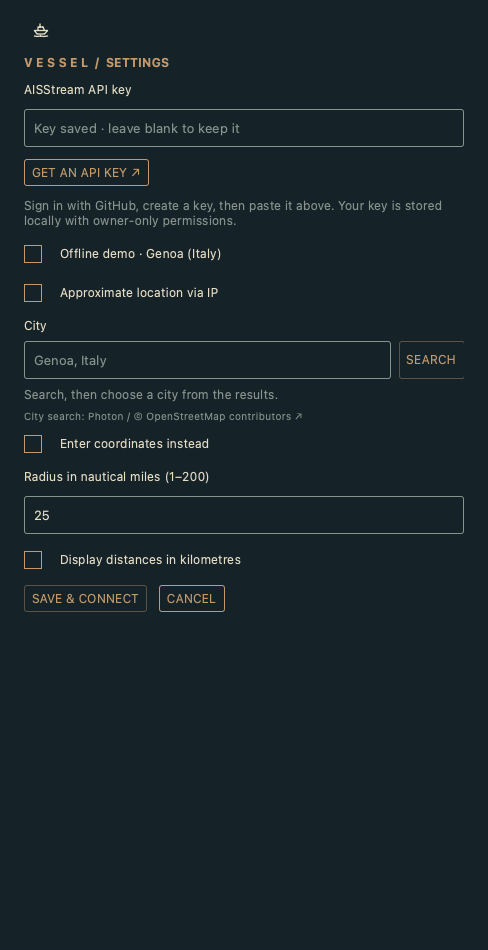
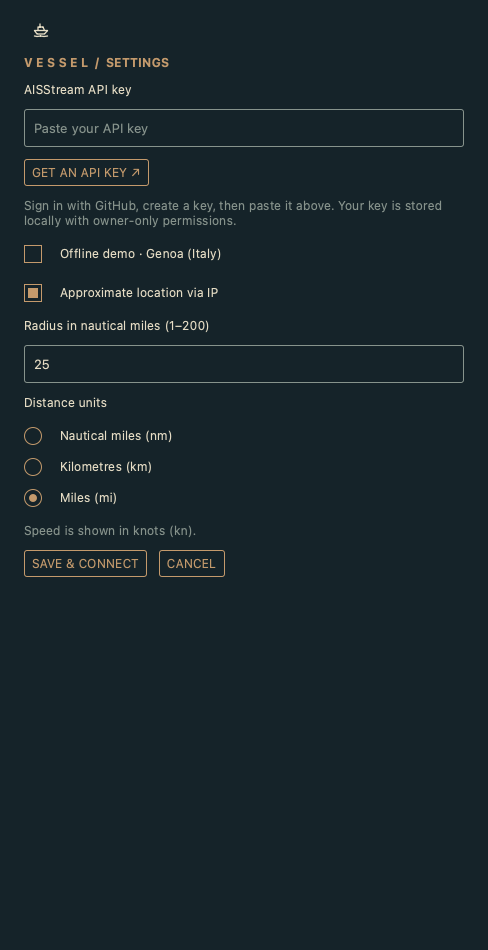
Offer nautical miles, kilometres and statute miles in settings

Changed region(s): [[0.0307, 0.3053, 0.584, 0.6411], [0.0615, 0.1221, 0.4918, 0.1526], [0.7992, 0.3663, 0.9529, 0.3968]]

diff --git a/SettingsForm.qml b/SettingsForm.qml
@@ -27,7 +27,9 @@ Column {
         manual.checked = !root.cityName && latitude.text !== "" && longitude.text !== "";
         automatic.checked = value.autoLocation !== false;
         demo.checked = value.demo === true;
+        nautical.checked = value.unit !== "km" && value.unit !== "mi";
         kilometres.checked = value.unit === "km";
+        miles.checked = value.unit === "mi";
     }
     Component.onCompleted: populate()
     Connections {
@@ -60,6 +62,22 @@ Column {
             width: 18; height: 18; y: (parent.height - height) / 2
             color: Color.background; border.color: Color.accent
             Rectangle { anchors.centerIn: parent; width: 10; height: 10; color: Color.accent; visible: parent.parent.checked }
+        }
+    }
+    // Sibling radio buttons keep the three unit choices mutually exclusive.
+    component UnitOption: RadioButton {
+        font.family: root.family
+        contentItem: Text {
+            text: parent.text; textFormat: Text.PlainText; color: Color.foreground
+            font: parent.font; leftPadding: 30; verticalAlignment: Text.AlignVCenter
+        }
+        indicator: Rectangle {
+            width: 18; height: 18; radius: 9; y: (parent.height - height) / 2
+            color: Color.background; border.color: Color.accent
+            Rectangle {
+                anchors.centerIn: parent; width: 8; height: 8; radius: 4
+                color: Color.accent; visible: parent.parent.checked
+            }
         }
     }
     Caption { text: "V E S S E L  /  SETTINGS"; color: Color.accent; font.bold: true }
@@ -137,7 +155,14 @@ Column {
     }
     Caption { text: "Radius in nautical miles (1–200)" }
     Field { id: radius; placeholderText: "25" }
-    Toggle { id: kilometres; text: "Display distances in kilometres" }
+    Caption { text: "Distance units" }
+    Column {
+        width: parent.width; spacing: 4
+        UnitOption { id: nautical; objectName: "unitNm"; text: "Nautical miles (nm)" }
+        UnitOption { id: kilometres; objectName: "unitKm"; text: "Kilometres (km)" }
+        UnitOption { id: miles; objectName: "unitMi"; text: "Miles (mi)" }
+    }
+    Caption { text: "Speed is shown in knots (kn)."; color: Color.muted }
     Caption { text: VesselService.settingsError; visible: text.length > 0; color: Color.accent }
     Row {
         spacing: 12
@@ -148,7 +173,7 @@ Column {
                 VesselService.saveSettings({apiKey: apiKey.text, radiusNm: radius.text,
                     latitude: latitude.text, longitude: longitude.text, cityName: root.cityName,
                     autoLocation: automatic.checked, demo: demo.checked,
-                    unit: kilometres.checked ? "km" : "nm"});
+                    unit: kilometres.checked ? "km" : miles.checked ? "mi" : "nm"});
                 apiKey.text = "";
             }
         }

diff --git a/Model.js b/Model.js
@@ -18,7 +18,10 @@ function compass(bearing) {
 }
 // Retain nautical miles internally and convert only the displayed label.
 function distance(nm, unit) {
-    return (unit === "km" ? nm * 1.852 : nm).toFixed(1) + " " + (unit === "km" ? "km" : "nm");
+    // One nautical mile is 1,852 metres; a statute mile is 1,609.344 metres.
+    if (unit === "km") return (nm * 1.852).toFixed(1) + " km";
+    if (unit === "mi") return (nm * 1852 / 1609.344).toFixed(1) + " mi";
+    return nm.toFixed(1) + " nm";
 }
 // Project bearing/range into screen pixels. center is a pixel offset from the
 // observer, not the normalized geographic center used to constrain panning.

diff --git a/tests/test_backend.py b/tests/test_backend.py
@@ -154,6 +154,13 @@ class SettingsTest(unittest.TestCase):
         settings.save(dict(apiKey="replacement"))
         self.assertEqual(settings.api_key(), "replacement")
 
+    def test_all_distance_units_survive_save_and_reload(self):
+        for unit in ("nm", "km", "mi"):
+            saved = settings.save(dict(unit=unit, radiusNm=25))
+            self.assertEqual(saved["unit"], unit)
+            self.assertEqual(settings.read()["unit"], unit)
+            self.assertEqual(settings.read()["radiusNm"], 25)
+
     def test_invalid_settings_do_not_replace_saved_key(self):
         settings.save(dict(apiKey="original"))
         for bad in [

diff --git a/backend/settings.py b/backend/settings.py
@@ -61,7 +61,7 @@ def validate_preferences(values):
     """Return only known fields, with the same rules for saved files and edits."""
     result = {key: values.get(key, default) for key, default in DEFAULTS.items()}
     result["radiusNm"] = bounded_number(result["radiusNm"], 1, 200)
-    if result["unit"] not in ("nm", "km") or any(
+    if result["unit"] not in ("nm", "km", "mi") or any(
         type(result[key]) is not bool for key in ("demo", "autoLocation")
     ):
         raise ValueError("Invalid preferences")

diff --git a/README.md b/README.md
@@ -28,7 +28,7 @@ I built Vessel out of that curiosity. I wanted a small widget I could glance at 
 - Offline land and coastline layer, projected around your position and colored by your theme.
 - One AISStream connection shared across bar widgets on multiple monitors.
 - Approximate IP geolocation, or a fixed latitude/longitude of your choice.
-- Configurable 1–200 nautical mile radius; distances displayed in nm or km.
+- Configurable 1–200 nautical mile radius; distances displayed in nautical miles (nm), kilometres (km) or miles (mi).
 - Vessel name, category, bearing from you, speed, reported destination and signal age.
 - Class A and Class B position reports, with static vessel information merged as it arrives.
 - Positions older than five minutes fade; contacts disappear after 30 minutes.
@@ -105,7 +105,7 @@ disk space, then click **RECONNECT** to retry.
 1. Open **Settings** from the Vessel panel.
 2. Paste your AISStream API key into the masked field.
 3. Use approximate IP location, or disable it and type a city name. Click **SEARCH**, then select a result. **Enter coordinates instead** remains available.
-4. Set the radius (1–200 nautical miles) and your preferred display unit.
+4. Set the radius (1–200 nautical miles) and choose **Nautical miles (nm)**, **Kilometres (km)** or **Miles (mi)**. Speed remains in knots (kn).
 5. Click **SAVE & CONNECT**. Changes apply immediately; no logout or shell restart.
 
 An empty key field keeps the previously saved key. To replace it, paste the new
@@ -182,7 +182,9 @@ it stops when the panel is closed or Settings is open. **SETTINGS**, **PAUSE / R
 **RECONNECT** share a fixed footer that stays visible while the panel scrolls. The bar shows only the boat icon.
 
 Reconnect after travelling to refresh the location. The radius always uses
-nautical miles, even when display units are kilometres (1 nm = 1.852 km).
+nautical miles, regardless of the distance display unit (1 nm = 1.852 km ≈ 1.151 mi).
+Nautical miles are the default; the unit choice is shared across the radar scale,
+vessel details and contact list.
 Contacts accumulate as reports arrive; names and destinations may arrive later.
 There is no stored history of vessel positions.
 
